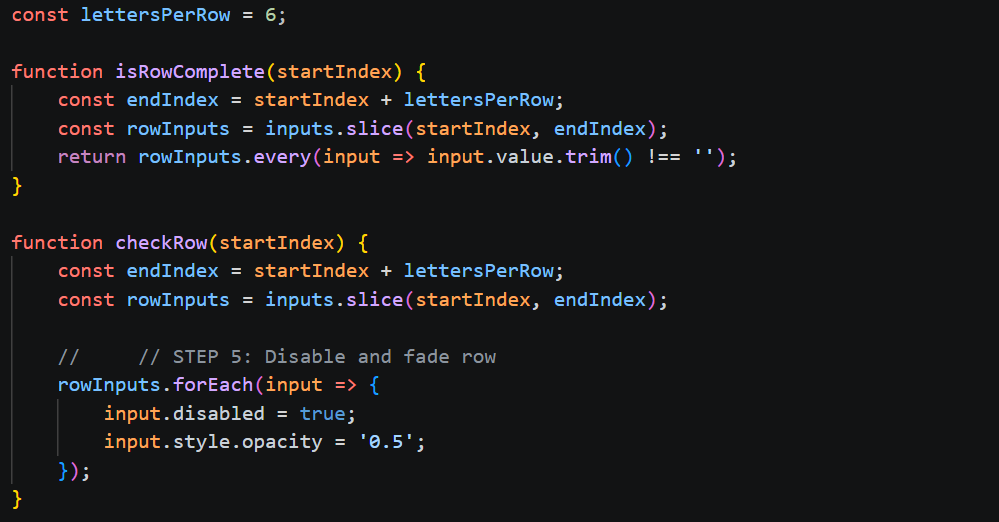
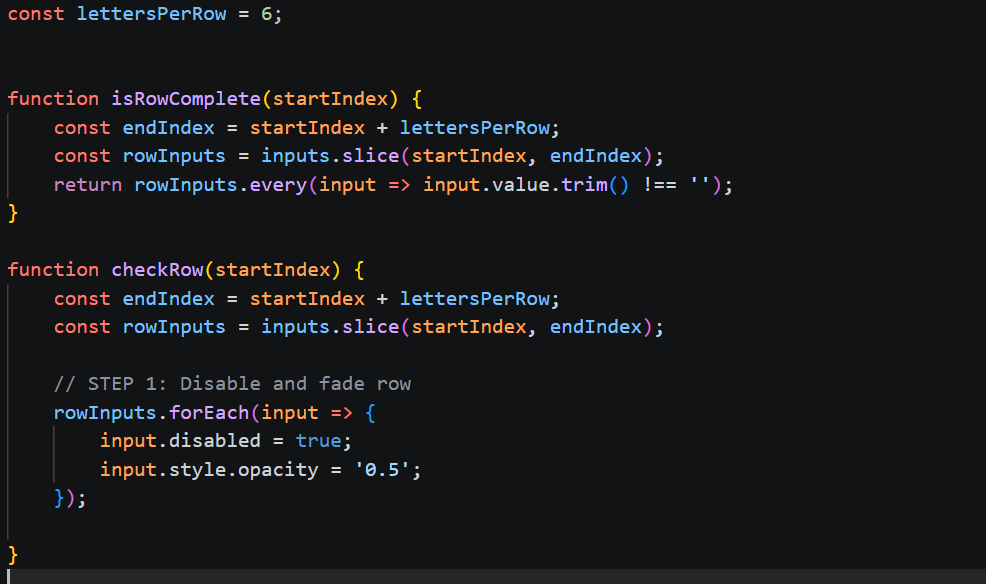
images checkrow

diff --git a/js/game.js b/js/game.js
@@ -1,5 +1,26 @@
 const inputs = [...document.querySelectorAll('.woord input')];
 const lettersPerRow = 6;
+let word = ''; // This will be replaced by a random word in a real game
+
+
+// let word = '';
+
+// Load and get random word from words.json
+async function loadRandomWord() {
+    // try {
+    //     const response = await fetch('./words.json');
+    //     const data = await response.json();
+    //     const wordList = data.words;
+    //     word = wordList[Math.floor(Math.random() * wordList.length)].toUpperCase();
+    //     console.log('Secret word loaded:', word);
+    // } catch (error) {
+    //     console.error('Error loading words:', error);
+    // }
+    word = 'ADVIES';
+}
+
+// Load the word when page loads
+loadRandomWord();
 
 function isRowComplete(startIndex) {
     const endIndex = startIndex + lettersPerRow;
@@ -11,78 +32,78 @@ function checkRow(startIndex) {
     const endIndex = startIndex + lettersPerRow;
     const rowInputs = inputs.slice(startIndex, endIndex);
 
-    //     // STEP 5: Disable and fade row
+    // STEP 1: Disable and fade row
     rowInputs.forEach(input => {
         input.disabled = true;
         input.style.opacity = '0.5';
     });
+    
+
+    // STEP 2: Mark GREEN letters (correct position)
+    const greenLetters = {};
+    rowInputs.forEach((input, index) => {
+        const letter = input.value.toUpperCase();
+        if (letter === word[index]) {
+            input.classList.add('green');
+            greenLetters[letter] = (greenLetters[letter] || 0) + 1;
+            console.log(greenLetters);
+        }
+    });
+    
+    // STEP 3: Count all letters in secret word
+    const availableLetters = {};
+    for (let i = 0; i < word.length; i++) {
+        const letter = word[i];
+        availableLetters[letter] = (availableLetters[letter] || 0) + 1;
+    }
+    
+    // STEP 4: Remove greens from available pool (avoid double-counting)
+    for (let letter in greenLetters) {
+        availableLetters[letter] -= greenLetters[letter];
+    }
+    
+    // STEP 5: Mark ORANGE letters (wrong position, but in word)
+    rowInputs.forEach((input, index) => {
+        const letter = input.value.toUpperCase();
+        
+        if (input.classList.contains('green')) return; // Skip greens
+        
+        // If letter still available, mark orange and use one instance
+        if (availableLetters[letter] && availableLetters[letter] > 0) {
+            input.classList.add('orange');
+            availableLetters[letter]--;
+        }
+    });
+    
+
+    //Step 6: Check for win condition
+    if (Object.keys(greenLetters).length === word.length) {
+            inputs.forEach(input => {
+            input.disabled = true;
+            input.style.opacity = '0.5';
+        });
+        showWinModal();
+    }
 }
-    
-//     // STEP 1: Mark GREEN letters (correct position)
-//     const greenLetters = {};
-//     rowInputs.forEach((input, index) => {
-//         const letter = input.value.toUpperCase();
-//         if (letter === word[index]) {
-//             input.classList.add('green');
-//             greenLetters[letter] = (greenLetters[letter] || 0) + 1;
-//             console.log(greenLetters);
-//         }
-//     });
-    
-//     // STEP 2: Count all letters in secret word
-//     const availableLetters = {};
-//     for (let i = 0; i < word.length; i++) {
-//         const letter = word[i];
-//         availableLetters[letter] = (availableLetters[letter] || 0) + 1;
-//     }
-    
-//     // STEP 3: Remove greens from available pool (avoid double-counting)
-//     for (let letter in greenLetters) {
-//         availableLetters[letter] -= greenLetters[letter];
-//     }
-    
-//     // STEP 4: Mark ORANGE letters (wrong position, but in word)
-//     rowInputs.forEach((input, index) => {
-//         const letter = input.value.toUpperCase();
-        
-//         if (input.classList.contains('green')) return; // Skip greens
-        
-//         // If letter still available, mark orange and use one instance
-//         if (availableLetters[letter] && availableLetters[letter] > 0) {
-//             input.classList.add('orange');
-//             availableLetters[letter]--;
-//         }
-//     });
-    
 
+function showWinModal() {
+    const modal = document.getElementById('winModal');
+    const winWordElement = document.getElementById('winWord');
+    const closeButton = document.getElementById('closeModal');
+    const tutorialBtn = document.getElementById('tutorialBtn');
+    
+    winWordElement.textContent = word;
+    modal.classList.remove('hidden');
+    
+    closeButton.addEventListener('click', () => {
+        location.reload(); // Reload page to play again
+    });
+    
+    tutorialBtn.addEventListener('click', () => {
+        window.location.href = './tutorial.html'; // Go to tutorial page
+    });
+}
 
-//     //Step 6: Check for win condition
-//     if (Object.keys(greenLetters).length === word.length) {
-//             inputs.forEach(input => {
-//             input.disabled = true;
-//             input.style.opacity = '0.5';
-//         });
-//         showWinModal();
-//     }
-// }
-
-// function showWinModal() {
-//     const modal = document.getElementById('winModal');
-//     const winWordElement = document.getElementById('winWord');
-//     const closeButton = document.getElementById('closeModal');
-//     const tutorialBtn = document.getElementById('tutorialBtn');
-    
-//     winWordElement.textContent = word;
-//     modal.classList.remove('hidden');
-    
-//     closeButton.addEventListener('click', () => {
-//         location.reload(); // Reload page to play again
-//     });
-    
-//     tutorialBtn.addEventListener('click', () => {
-//         window.location.href = './tutorial.html'; // Go to tutorial page
-//     });
-// }
 
 
 inputs.forEach((input, i) => {

diff --git a/tutorial.html b/tutorial.html
@@ -456,8 +456,7 @@
         </div>
         <p>import alls inputs van de html zodat we ze kunnen gebruiken in onze JavaScript code. (dit is de aller eerste lijn code)</p>
 
-    <script src=" js/copycode.js"></script>
-
+  
 
 
 
@@ -557,7 +556,7 @@
 
     </p>
     <div class="infoBlockImage">
-        <img src="img\img-event-lissener-2.png" alt="">
+        <img src="img\img-event-lissener-3.png" alt="">
     </div>
     <b>Wat we nu hebben gemaakt:</b>
     <div class="infoBlockImage">
@@ -565,6 +564,10 @@
     </div>
 </div>
 
+
+
+
+<script src=" js/copycode.js"></script>
 </body>
 
 </html>

diff --git a/css/game.css b/css/game.css
@@ -49,7 +49,6 @@ input {
     color: var(--primary-accent-color);
     font-weight: var(--medium-font-weight);
   } */
-}
 
 /* Modal Styling */
 .modal {
@@ -64,6 +63,7 @@ input {
   align-items: center;
   z-index: 1000;
   font-family: "Smooch Sans", sans-serif;
+  margin: auto;
 }
 
 .modal.hidden {
